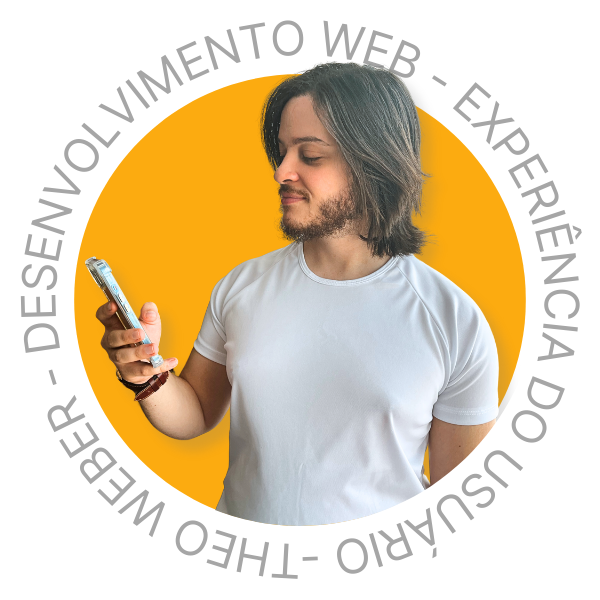
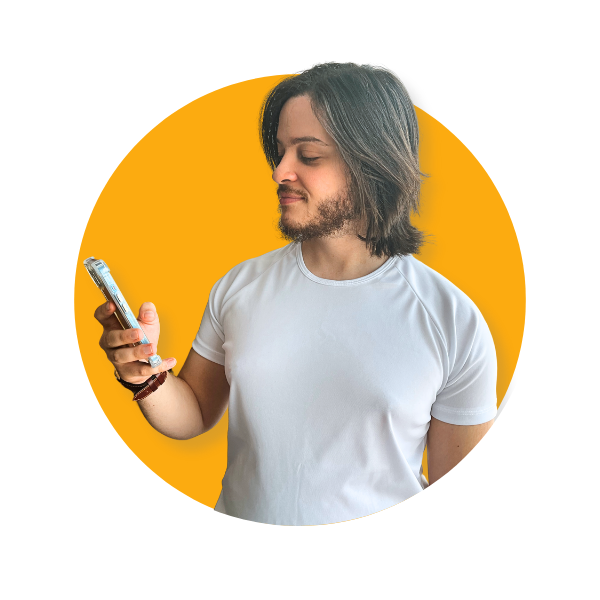
refactor: posicionamento e estilos em componentes

diff --git a/src/views/TradeView.vue b/src/views/TradeView.vue
@@ -1,7 +1,105 @@
 <template>
-    teste
+    <TradeListSection :content="dataArray" />
 </template>
-
 <script>
+import TradeListSection from '@/components/sections/TradeListSection.vue';
 
+export default {
+    components: {
+        TradeListSection,
+    },
+    data() {
+    return {
+      dataArray: [
+        {
+          title: 'Solicitações de troca em aberto',
+          description: '',
+          descriptionButton: '',
+          trades: [
+            {
+              title1: 'A Shattered, Colorless Realm1',
+              description1:
+                "If Vicious Astraloud is on the field: Target 1 card on the field; destroy it, then, if the destroyed card's original name was Vicious Astraloud, you can Special Summon 1 of your banished Visas Starfrost, or if it was not, you can make 1 Vicious Astraloud you control gain 1500 ATK.",
+              title2: 'A Shattered, Colorless Realm1',
+              description2:
+                "If Vicious Astraloud is on the field: Target 1 card on the field; destroy it, then, if the destroyed card's original name was Vicious Astraloud, you can Special Summon 1 of your banished Visas Starfrost, or if it was not, you can make 1 Vicious Astraloud you control gain 1500 ATK."
+            },
+            {
+              title1: 'A Shattered, Colorless Realm1',
+              description1:
+                "If Vicious Astraloud is on the field: Target 1 card on the field; destroy it, then, if the destroyed card's original name was Vicious Astraloud, you can Special Summon 1 of your banished Visas Starfrost, or if it was not, you can make 1 Vicious Astraloud you control gain 1500 ATK.",
+              title2: 'A Shattered, Colorless Realm1',
+              description2:
+                "If Vicious Astraloud is on the field: Target 1 card on the field; destroy it, then, if the destroyed card's original name was Vicious Astraloud, you can Special Summon 1 of your banished Visas Starfrost, or if it was not, you can make 1 Vicious Astraloud you control gain 1500 ATK."
+            },
+            {
+              title1: 'A Shattered, Colorless Realm1',
+              description1:
+                "If Vicious Astraloud is on the field: Target 1 card on the field; destroy it, then, if the destroyed card's original name was Vicious Astraloud, you can Special Summon 1 of your banished Visas Starfrost, or if it was not, you can make 1 Vicious Astraloud you control gain 1500 ATK.",
+              title2: 'A Shattered, Colorless Realm1',
+              description2:
+                "If Vicious Astraloud is on the field: Target 1 card on the field; destroy it, then, if the destroyed card's original name was Vicious Astraloud, you can Special Summon 1 of your banished Visas Starfrost, or if it was not, you can make 1 Vicious Astraloud you control gain 1500 ATK."
+            },
+            {
+              title1: 'A Shattered, Colorless Realm1',
+              description1:
+                "If Vicious Astraloud is on the field: Target 1 card on the field; destroy it, then, if the destroyed card's original name was Vicious Astraloud, you can Special Summon 1 of your banished Visas Starfrost, or if it was not, you can make 1 Vicious Astraloud you control gain 1500 ATK.",
+              title2: 'A Shattered, Colorless Realm1',
+              description2:
+                "If Vicious Astraloud is on the field: Target 1 card on the field; destroy it, then, if the destroyed card's original name was Vicious Astraloud, you can Special Summon 1 of your banished Visas Starfrost, or if it was not, you can make 1 Vicious Astraloud you control gain 1500 ATK."
+            },
+            {
+              title1: 'A Shattered, Colorless Realm1',
+              description1:
+                "If Vicious Astraloud is on the field: Target 1 card on the field; destroy it, then, if the destroyed card's original name was Vicious Astraloud, you can Special Summon 1 of your banished Visas Starfrost, or if it was not, you can make 1 Vicious Astraloud you control gain 1500 ATK.",
+              title2: 'A Shattered, Colorless Realm1',
+              description2:
+                "If Vicious Astraloud is on the field: Target 1 card on the field; destroy it, then, if the destroyed card's original name was Vicious Astraloud, you can Special Summon 1 of your banished Visas Starfrost, or if it was not, you can make 1 Vicious Astraloud you control gain 1500 ATK."
+            },
+            {
+              title1: 'A Shattered, Colorless Realm1',
+              description1:
+                "If Vicious Astraloud is on the field: Target 1 card on the field; destroy it, then, if the destroyed card's original name was Vicious Astraloud, you can Special Summon 1 of your banished Visas Starfrost, or if it was not, you can make 1 Vicious Astraloud you control gain 1500 ATK.",
+              title2: 'A Shattered, Colorless Realm1',
+              description2:
+                "If Vicious Astraloud is on the field: Target 1 card on the field; destroy it, then, if the destroyed card's original name was Vicious Astraloud, you can Special Summon 1 of your banished Visas Starfrost, or if it was not, you can make 1 Vicious Astraloud you control gain 1500 ATK."
+            },
+            {
+              title1: 'A Shattered, Colorless Realm1',
+              description1:
+                "If Vicious Astraloud is on the field: Target 1 card on the field; destroy it, then, if the destroyed card's original name was Vicious Astraloud, you can Special Summon 1 of your banished Visas Starfrost, or if it was not, you can make 1 Vicious Astraloud you control gain 1500 ATK.",
+              title2: 'A Shattered, Colorless Realm1',
+              description2:
+                "If Vicious Astraloud is on the field: Target 1 card on the field; destroy it, then, if the destroyed card's original name was Vicious Astraloud, you can Special Summon 1 of your banished Visas Starfrost, or if it was not, you can make 1 Vicious Astraloud you control gain 1500 ATK."
+            },
+            {
+              title1: 'A Shattered, Colorless Realm1',
+              description1:
+                "If Vicious Astraloud is on the field: Target 1 card on the field; destroy it, then, if the destroyed card's original name was Vicious Astraloud, you can Special Summon 1 of your banished Visas Starfrost, or if it was not, you can make 1 Vicious Astraloud you control gain 1500 ATK.",
+              title2: 'A Shattered, Colorless Realm1',
+              description2:
+                "If Vicious Astraloud is on the field: Target 1 card on the field; destroy it, then, if the destroyed card's original name was Vicious Astraloud, you can Special Summon 1 of your banished Visas Starfrost, or if it was not, you can make 1 Vicious Astraloud you control gain 1500 ATK."
+            },
+            {
+              title1: 'A Shattered, Colorless Realm1',
+              description1:
+                "If Vicious Astraloud is on the field: Target 1 card on the field; destroy it, then, if the destroyed card's original name was Vicious Astraloud, you can Special Summon 1 of your banished Visas Starfrost, or if it was not, you can make 1 Vicious Astraloud you control gain 1500 ATK.",
+              title2: 'A Shattered, Colorless Realm1',
+              description2:
+                "If Vicious Astraloud is on the field: Target 1 card on the field; destroy it, then, if the destroyed card's original name was Vicious Astraloud, you can Special Summon 1 of your banished Visas Starfrost, or if it was not, you can make 1 Vicious Astraloud you control gain 1500 ATK."
+            },
+            {
+              title1: 'A Shattered, Colorless Realm1',
+              description1:
+                "If Vicious Astraloud is on the field: Target 1 card on the field; destroy it, then, if the destroyed card's original name was Vicious Astraloud, you can Special Summon 1 of your banished Visas Starfrost, or if it was not, you can make 1 Vicious Astraloud you control gain 1500 ATK.",
+              title2: 'A Shattered, Colorless Realm1',
+              description2:
+                "If Vicious Astraloud is on the field: Target 1 card on the field; destroy it, then, if the destroyed card's original name was Vicious Astraloud, you can Special Summon 1 of your banished Visas Starfrost, or if it was not, you can make 1 Vicious Astraloud you control gain 1500 ATK."
+            },
+          ]
+        }
+      ]
+    }
+  }
+}
 </script>

diff --git a/src/components/sectionItems/TradeFeature.vue b/src/components/sectionItems/TradeFeature.vue
@@ -11,17 +11,15 @@
         Receber <p class="font-normal">{{ trade.title1 }}</p>
         <br>Trocar por <p class="font-normal">{{ trade.title2 }}</p>
       </p>
-      <div class="flex mx-auto justify-center items-center md:order-2 space-x-3 md:space-x-0 rtl:space-x-reverse">
-        <div class="mx-4">
-          <button type="button" class="text-white bg-gray-400 hover:bg-gray-600 focus:ring-4 focus:outline-none focus:ring-blue-300 font-medium rounded-lg text-sm px-4 py-2 text-center dark:bg-blue-600 dark:hover:bg-blue-700 dark:focus:ring-blue-800">
-            Trocar
-          </button>
-        </div>
-        <button data-modal-target="static-modal" data-modal-toggle="static-modal" class="block text-white bg-blue-700 hover:bg-blue-800 focus:ring-4 focus:outline-none focus:ring-blue-300 font-medium rounded-lg text-sm px-5 py-2.5 text-center dark:bg-gray-600 dark:hover:bg-gray-700 dark:focus:ring-blue-800" type="button">
-  Detalhes
-</button>
-
-      </div>
+      <button class="relative inline-flex items-center p-0.5 mb-2 me-2 overflow-hidden text-sm font-medium text-gray-900 rounded-lg group bg-gradient-to-br from-purple-900 to-amber-600 group-hover:from-purple-500 group-hover:to-orange-400 hover:text-white dark:text-white focus:ring-4 focus:outline-none focus:ring-purple-300 dark:focus:ring-purple-300">
+      <span class="relative px-5 py-2.5 transition-all ease-in duration-75 bg-white dark:bg-gray-900 rounded-md group-hover:bg-opacity-0">
+      Trocar
+      </span>
+      </button> <button class="relative inline-flex items-center p-0.5 mb-2 me-2 overflow-hidden text-sm font-medium text-gray-900 rounded-lg group bg-gradient-to-br from-purple-900 to-amber-600 group-hover:from-purple-500 group-hover:to-orange-400 hover:text-white dark:text-white focus:ring-4 focus:outline-none focus:ring-purple-300 dark:focus:ring-purple-300">
+      <span class="relative px-5 py-2.5 transition-all ease-in duration-75 bg-white dark:bg-gray-900 rounded-md group-hover:bg-opacity-0">
+      Detalhes
+      </span>
+      </button>
     </div>
 
 

diff --git a/src/views/InstructionView.vue b/src/views/InstructionView.vue
@@ -18,4 +18,36 @@ export default {
         />
       </div>
     </div>
+
+<ol class="items-center w-full space-y-4 sm:flex sm:space-x-8 sm:space-y-0 rtl:space-x-reverse">
+  <li class="flex items-center text-gray-500 dark:text-gray-400 space-x-2.5 rtl:space-x-reverse">
+        <span class="flex items-center justify-center w-8 h-8 border border-purple-700 rounded-full shrink-0 dark:border-purple-700">
+            1
+        </span>
+        <span>
+            <h3 class="font-medium leading-tight">Registre-se</h3>
+            <p class="text-sm">Crie um usuário inserindo email, nome e senha</p>
+        </span>
+    </li>
+    <li class="flex items-center text-gray-500 dark:text-gray-400 space-x-2.5 rtl:space-x-reverse">
+      <span class="flex items-center justify-center w-8 h-8 border border-purple-700 rounded-full shrink-0 dark:border-purple-700">
+            2
+        </span>
+        <span>
+            <h3 class="font-medium leading-tight">Crie uma solicitação de troca</h3>
+            <p class="text-sm">Vá em minhas trocas e clique em botao e faça isso e aquilo</p>
+        </span>
+    </li>
+    <li class="flex items-center text-gray-500 dark:text-gray-400 space-x-2.5 rtl:space-x-reverse">
+      <span class="flex items-center justify-center w-8 h-8 border border-purple-700 rounded-full shrink-0 dark:border-purple-700">
+            3
+        </span>
+        <span>
+            <h3 class="font-medium leading-tight">Navegue pelas cartas disponíveis no sistema</h3>
+            <p class="text-sm">Vá em cartas e veja todas as cartas disponíveis no sistema para adicionar à sua conta e trocar</p>
+        </span>
+    </li>
+</ol>
+
+
   </template>

diff --git a/src/components/sections/AboutMeSection.vue b/src/components/sections/AboutMeSection.vue
@@ -10,14 +10,31 @@ export default {
 
 <template>
   <div class="flex w-full mt-24 items-center justify-between mx-auto">
-    <img src="@/assets/theoWeberIcon.png" alt="Foto de Theo Weber com fundo laranja" class="w-3/12 h-auto mb-4 mx-auto">
-
     <div class="w-5/12 mx-auto">
-      <TitleAndDescription
-        title="Título provisório"
-        description="Descrição provisória descrição provisória descrição provisóriadescrição provisóriadescrição provisóriadescrição provisóriadescrição provisóriadescrição provisória."
-        buttonText="Entrar em contato"
+      <TitleAndDescription 
+        title="Sobre o Desenvolvedor"
+        description=" Aos 23 anos, no último ano de Engenharia Elétrica na UFPB e avançando no curso de Análise e Desenvolvimento de Sistemas, trago uma bagagem de três anos como desenvolvedor Full Stack. Minha motivação vai além do desenvolvimento de soluções; busco oportunidades para fazer a diferença e impactar positivamente o mundo."
+        buttonText="Portfólio"
       />
+    </div>
+    <div class="relative w-4/12 mx-auto">
+      <img src="@/assets/theoWeberIcon.png" alt="Foto de Theo Weber com fundo laranja" class="h-auto absolute mb-4 inset-0">
+      <img src="@/assets/circleText.png" alt="Foto de Theo Weber com fundo laranja" class="h-auto  mb-4 animate-spin-slow inset-0">
     </div>
   </div>
 </template>
+
+<style scoped>
+.animate-spin-slow {
+  animation: spin 12s linear infinite; 
+}
+
+@keyframes spin {
+  0% {
+    transform: rotate(0deg);
+  }
+  100% {
+    transform: rotate(360deg);
+  }
+}
+</style>

diff --git a/src/components/NavBar.vue b/src/components/NavBar.vue
@@ -57,19 +57,18 @@
           </li>
           <li>
             <RouterLink
-              to="/trades"
+              to="/cards"
               class="block py-2 px-3 md:p-0 rounded hover:bg-gray-100 md:hover:bg-transparent md:hover:text-purple-700 md:dark:hover:text-purple-500 dark:hover:bg-gray-700 dark:hover:text-white md:dark:hover:bg-transparent dark:border-gray-700"
-              :class="{'text-purple-700': $route.path === '/trades'}"
-              >Trocas</RouterLink
+              :class="{'text-purple-700': $route.path === '/cards'}"
+              >Cartas</RouterLink
             >
           </li>
           <li>
             <RouterLink
-              to="/cards"
-              aria-current="page"
+              to="/trades"
               class="block py-2 px-3 md:p-0 rounded hover:bg-gray-100 md:hover:bg-transparent md:hover:text-purple-700 md:dark:hover:text-purple-500 dark:hover:bg-gray-700 dark:hover:text-white md:dark:hover:bg-transparent dark:border-gray-700"
-              :class="{'text-purple-700': $route.path === '/cards'}"
-              >Minhas Cartas</RouterLink
+              :class="{'text-purple-700': $route.path === '/trades'}"
+              >Trocas</RouterLink
             >
           </li>
           <li>

diff --git a/src/components/sectionItems/TitleAndDescription.vue b/src/components/sectionItems/TitleAndDescription.vue
@@ -1,11 +1,11 @@
 <template>
-  <div class="py-8 max-w-screen-xl text-start lg:py-16">
+  <div class="py-8 max-w-screen-xl  lg:py-16">
     <h1
-      class="mb-4 text-4xl font-extrabold tracking-tight leading-none text-gray-900 md:text-5xl lg:text-5xl dark:text-white"
+      class="mb-4 text-4xl text-start font-extrabold tracking-tight leading-none text-gray-900 md:text-5xl lg:text-5xl dark:text-white"
     >
       {{ title }}
     </h1>
-    <p class="mb-8 text-lg font-normal text-gray-500 lg:text-regular dark:text-gray-400">
+    <p class="mb-8 text-lg font-normal text-justify text-gray-500 lg:text-regular dark:text-gray-400">
       {{ description }}
     </p>
       <button class="relative inline-flex items-center p-0.5 mb-2 me-2 overflow-hidden text-sm font-medium text-gray-900 rounded-lg group bg-gradient-to-br from-purple-900 to-amber-600 group-hover:from-purple-500 group-hover:to-orange-400 hover:text-white dark:text-white focus:ring-4 focus:outline-none focus:ring-purple-300 dark:focus:ring-purple-300">

diff --git a/src/components/sectionItems/SubmitForm.vue b/src/components/sectionItems/SubmitForm.vue
@@ -13,12 +13,11 @@
       />
       <p v-if="errors[field.id]" class="text-red-500">{{ errors[field.id] }}</p>
     </div>
-    <button
-      type="submit"
-      class="text-white bg-blue-700 hover:bg-blue-800 focus:ring-4 focus:outline-none focus:ring-blue-300 font-medium rounded-lg text-sm px-5 py-2.5 text-center dark:bg-blue-600 dark:hover:bg-blue-700 dark:focus:ring-blue-800"
-    >
-      {{ submitLabel }}
-    </button>
+    <button type="submit" class="relative inline-flex items-center p-0.5 mb-2 me-2 overflow-hidden text-sm font-medium text-gray-900 rounded-lg group bg-gradient-to-br from-purple-900 to-amber-600 group-hover:from-purple-500 group-hover:to-orange-400 hover:text-white dark:text-white focus:ring-4 focus:outline-none focus:ring-purple-300 dark:focus:ring-purple-300">
+      <span class="relative px-5 py-2.5 transition-all ease-in duration-75 bg-white dark:bg-gray-900 rounded-md group-hover:bg-opacity-0">
+        {{ submitLabel }}
+      </span>
+      </button>
   </form>
 </template>
 

diff --git a/src/router/index.js b/src/router/index.js
@@ -3,8 +3,9 @@ import HomeView from '../views/HomeView.vue'
 import AboutView from '../views/AboutView.vue'
 import InstructionView from '../views/InstructionView.vue'
 import RegisterView from '@/views/RegisterView.vue'
-import MyCardsView from '@/views/MyCardsView.vue'
+import MyCardsAndTradesView from '@/views/MyCardsAndTradesView.vue'
 import TradeView from '@/views/TradeView.vue'
+import CardsView from '@/views/CardsView.vue'
 
 const router = createRouter({
   history: createWebHistory(import.meta.env.BASE_URL),
@@ -30,14 +31,19 @@ const router = createRouter({
       component: RegisterView
     },
     {
-      path: '/cards',
-      name: 'cards',
-      component: MyCardsView
+      path: '/my-cards-and-trades',
+      name: 'my-cards',
+      component: MyCardsAndTradesView
     },
     {
       path: '/trades',
       name: 'trades',
       component: TradeView
+    },
+    {
+      path: '/cards',
+      name: 'cards',
+      component: CardsView
     },
   ]
 })

diff --git a/src/views/CardsView.vue b/src/views/CardsView.vue
@@ -1,0 +1,34 @@
+<template>
+    <CardList :content="data" />
+  </template>
+  <script>
+  import CardList from '@/components/sectionItems/CardList.vue'
+  
+  export default {
+    components: {
+      CardList
+    },
+    data() {
+      return {
+        data: [
+          {
+            title: 'Cartas Disponíveis',
+            description: 'Descrição do conteúdo.',
+            cards: [
+              {
+                title: 'Título do Card 1',
+                description: 'Nome do Card 1'
+              },
+              {
+                title: 'Título do Card 2',
+                description: 'Nome do Card 2'
+              }
+              // Adicione mais cards conforme necessário
+            ]
+          }
+        ]
+      }
+    }
+  }
+  </script>
+  

diff --git a/src/components/sections/RegisterSection.vue b/src/components/sections/RegisterSection.vue
@@ -1,10 +1,10 @@
 <template>
   <div class="flex mt-16">
-    <div class="w-5/12 mx-16">
+    <div class="w-4/12 mx-16">
       <TitleAndDescription
-        title="Título provisório"
-        description="Descrição provisória descrição provisória descrição provisóriadescrição provisóriadescrição provisóriadescrição provisóriadescrição provisóriadescrição provisória."
-        buttonText="botão provisório"
+        title="Comece a trocar suas cartas hoje"
+        description="Se registre agora e comece a desfrutar da emoção de trocar cartas de Yu-Gi-Oh com outros entusiastas como você. É fácil, é divertido e é tudo parte da experiência YuGiCards!"
+        buttonText=""
       />
     </div>
     <div class="w-3/12 mt-14 mx-20">

diff --git a/src/components/LoginModal.vue b/src/components/LoginModal.vue
@@ -40,7 +40,7 @@ export default {
   <button
     data-modal-target="authentication"
     data-modal-toggle="authentication"
-    class="block text-white bg-purple-700 hover:bg-purple-800 focus:ring-4 focus:outline-none focus:ring-purple-300 font-medium rounded-lg text-sm px-5 py-2.5 text-center dark:bg-purple-600 dark:hover:bg-purple-700 dark:focus:ring-purple-300"
+    class="block text-white bg-blue-700 hover:bg-blue-800 focus:ring-4 focus:outline-none focus:ring-blue-300 font-medium rounded-lg text-sm px-5 py-2.5 text-center dark:bg-blue-600 dark:hover:bg-blue-700 dark:focus:ring-blue-800"
     type="button"
   >
     Login

diff --git a/src/components/sectionItems/CardList.vue b/src/components/sectionItems/CardList.vue
@@ -19,7 +19,7 @@
           <img
             src="@/assets/cardtest.jpeg"
             alt="Banner"
-            class="w-9/12 h-auto mb-4 mx-auto transition-transform duration-300 transform hover:scale-150"
+            class="w-9/12 h-auto mb-4 mx-auto transition-transform duration-300 transform hover:scale-110"
           />
           <p class="text-lg font-bold text-center text-gray-500 dark:text-white mb-4">
             {{ card.description }}
